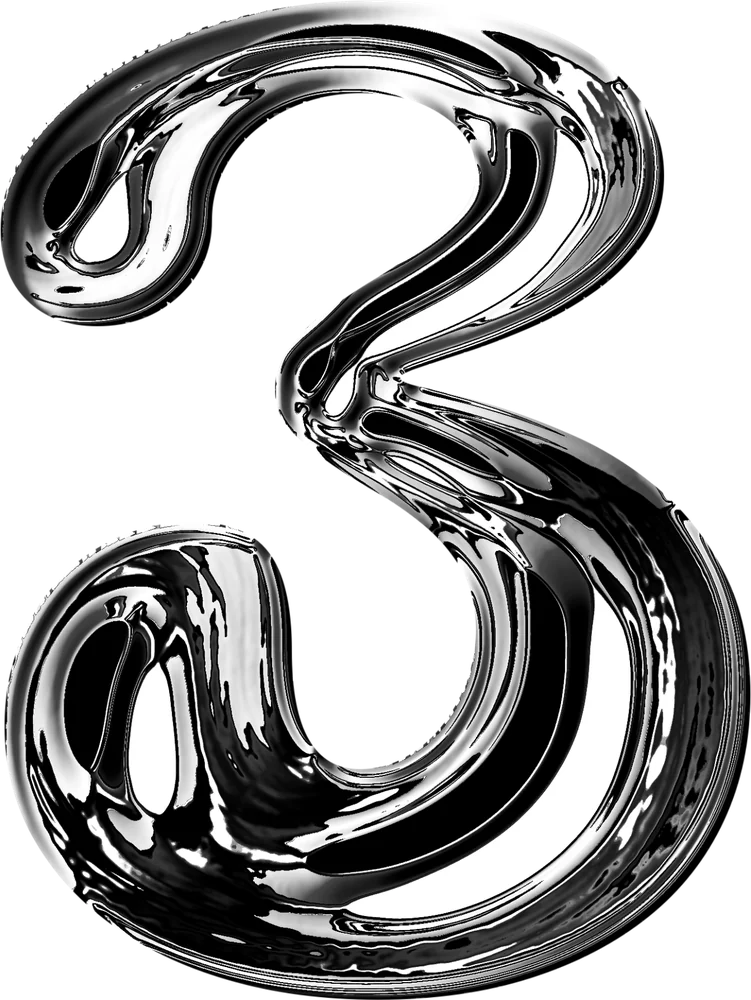
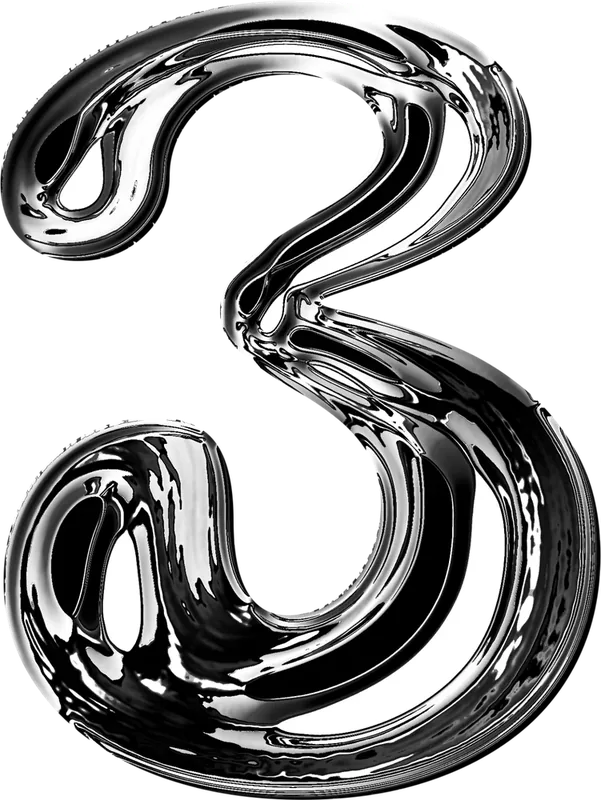
Lighter first load (lazy video, photos and letters, smaller images); cards follow the stack; softer blur crossfade
Claude-Session: https://claude.ai/code/session_015srq9B7aamxsEMEASfp4Nc

diff --git a/site/app.js b/site/app.js
@@ -16,14 +16,14 @@
     { emoji: '🔮', label: 'Vibes', why: 'or wibes' }
   ];
   const SLIDES = [
-    ['stay-01.jpg', 'Patio opening onto the kitchen, with a pool in front'],
-    ['stay-02.jpg', 'Fire pit overlooking the pickleball court at sunset'],
-    ['stay-03.jpg', 'Resort-style pool with loungers and cabana'],
-    ['stay-04.jpg', 'Patio chairs, cabana and court under a pink sky'],
-    ['stay-05.jpg', 'Pool with loungers and a wooden cabana'],
-    ['stay-06.jpg', 'Pickleball court with barrel sauna and clear dome'],
-    ['stay-07.jpg', 'Aerial view of the whole property in the desert'],
-    ['stay-08.jpg', 'Top-down aerial of pool, court and putting green']
+    ['stay-01.webp', 'Patio opening onto the kitchen, with a pool in front'],
+    ['stay-02.webp', 'Fire pit overlooking the pickleball court at sunset'],
+    ['stay-03.webp', 'Resort-style pool with loungers and cabana'],
+    ['stay-04.webp', 'Patio chairs, cabana and court under a pink sky'],
+    ['stay-05.webp', 'Pool with loungers and a wooden cabana'],
+    ['stay-06.webp', 'Pickleball court with barrel sauna and clear dome'],
+    ['stay-07.webp', 'Aerial view of the whole property in the desert'],
+    ['stay-08.webp', 'Top-down aerial of pool, court and putting green']
   ];
   const FROM = ['SF', 'LAX'];
 
@@ -142,14 +142,14 @@
         <circle cx="100" cy="100" r="99" fill="${METAL[ring] ? `url(#${id}g)` : ring}"/>
         <text fill="${ink}"><textPath href="#${id}" textLength="548" lengthAdjust="spacing">${esc(text)}</textPath></text>
       </svg>
-      <div class="badge-photo"><img src="${src}" alt="" style="object-position:${objPos}"></div>
+      <div class="badge-photo"><img src="${src}" alt="" style="object-position:${objPos}"${cls === 'gb-badge' ? ' loading="lazy" decoding="async"' : ''}></div>
     </div>`);
   }
   const heroBadges = $('heroBadges');
   [
-    ['assets/kathi.jpg', '50% 45%', 'TAP TO RSVP ✦ RSVP BY OCT 30 ✦ TAP TO RSVP ✦ RSVP BY OCT 30 ✦', '#f02719', '#ffffff', 'right:5%;top:30%;width:clamp(150px,20vw,270px)', 0, 16],
-    ['assets/kathi-baby.jpg', '51% 18%', 'EST. 1997 ✦ BABY KATHI ✦ EST. 1997 ✦ BABY KATHI ✦', '#fbf8f4', '#24221f', 'left:4%;top:27%;width:clamp(130px,17vw,240px)', -1.7, -20],
-    ['assets/kathi-bw.jpg', '58% 30%', 'CERTIFIED CHAOS ✦ 30 & THRIVING ✦ CERTIFIED CHAOS ✦ 30 & THRIVING ✦', '#24221f', '#f6f2ec', 'right:27%;top:55%;width:clamp(110px,13vw,190px)', -3.2, 12]
+    ['assets/kathi.webp', '50% 45%', 'TAP TO RSVP ✦ RSVP BY OCT 30 ✦ TAP TO RSVP ✦ RSVP BY OCT 30 ✦', '#f02719', '#ffffff', 'right:5%;top:30%;width:clamp(150px,20vw,270px)', 0, 16],
+    ['assets/kathi-baby.webp', '51% 18%', 'EST. 1997 ✦ BABY KATHI ✦ EST. 1997 ✦ BABY KATHI ✦', '#fbf8f4', '#24221f', 'left:4%;top:27%;width:clamp(130px,17vw,240px)', -1.7, -20],
+    ['assets/kathi-bw.webp', '58% 30%', 'CERTIFIED CHAOS ✦ 30 & THRIVING ✦ CERTIFIED CHAOS ✦ 30 & THRIVING ✦', '#24221f', '#f6f2ec', 'right:27%;top:55%;width:clamp(110px,13vw,190px)', -3.2, 12]
   ].forEach((b) => heroBadges.append(ringSticker('badge', ...b)));
   // the red sticker doubles as the RSVP button
   (() => {
@@ -171,6 +171,13 @@
     const kicker = hero.querySelector('.hero-kicker');
     hero.insertBefore(wrap, kicker);
     [kicker, hero.querySelector('.hero-30-wrap'), hero.querySelector('.hero-reflect'), $('heroBadges')].forEach((el) => wrap.appendChild(el));
+  })();
+
+  // ---------- dance video: loads and plays only when it scrolls into view ----------
+  (() => {
+    const v = document.querySelector('.polaroid video');
+    if (!v || !('IntersectionObserver' in window)) return;
+    new IntersectionObserver((es) => es.forEach((en) => { if (en.isIntersecting) { if (!v.src) v.src = v.dataset.src; v.play().catch(() => {}); } else if (v.src) v.pause(); }), { rootMargin: '300px 0px' }).observe(v);
   })();
 
   // ---------- marquee ----------
@@ -202,15 +209,15 @@
   // ---------- guest book lock stickers ----------
   const gbBadges = $('gbBadges');
   [
-    ['assets/gb-01.jpg', '35% 28%', 'KATHI 30 ✦ JOSHUA TREE ✦ KATHI 30 ✦ JOSHUA TREE ✦', 'gunmetal', '#d4d7de', 'left:3%;top:6%;width:clamp(140px,18vw,230px)', 0, 16],
-    ['assets/gb-02.jpg', '55% 35%', 'MAIN CHARACTERS ✦ MAIN CHARACTERS ✦', 'silver', '#f02719', 'left:6%;bottom:8%;width:clamp(130px,16.5vw,215px)', -1.3, -18],
-    ['assets/gb-03.jpg', '40% 30%', 'DESERT CREW ✦ DESERT CREW ✦', '#f02719', '#ffffff', 'left:14%;top:40%;width:clamp(108px,11.5vw,160px)', -2.1, 14],
-    ['assets/gb-04.jpg', '62% 58%', 'JAN 15—18 ✦ 2027 ✦ JAN 15—18 ✦ 2027 ✦', 'blue', '#24221f', 'right:4%;top:5%;width:clamp(140px,18vw,230px)', -0.7, -20],
-    ['assets/gb-05.jpg', '45% 25%', 'STARGAZING GLAM ✦ STARGAZING GLAM ✦', 'silver', '#24221f', 'right:14%;top:42%;width:clamp(108px,11.5vw,160px)', -2.8, 17],
-    ['assets/gb-06.jpg', '45% 55%', '30 & THRIVING ✦ 30 & THRIVING ✦', '#f02719', '#ffffff', 'right:5%;bottom:7%;width:clamp(130px,16.5vw,215px)', -3.5, -15],
-    ['assets/gb-07.jpg', '60% 55%', 'NO PEEKING ✦ NO PEEKING ✦ NO PEEKING ✦', 'blue', '#f02719', 'left:30%;bottom:2%;width:clamp(108px,11.5vw,160px)', -4.4, 13]
+    ['assets/gb-01.webp', '35% 28%', 'KATHI 30 ✦ JOSHUA TREE ✦ KATHI 30 ✦ JOSHUA TREE ✦', 'gunmetal', '#d4d7de', 'left:3%;top:6%;width:clamp(140px,18vw,230px)', 0, 16],
+    ['assets/gb-02.webp', '55% 35%', 'MAIN CHARACTERS ✦ MAIN CHARACTERS ✦', 'silver', '#f02719', 'left:6%;bottom:8%;width:clamp(130px,16.5vw,215px)', -1.3, -18],
+    ['assets/gb-03.webp', '40% 30%', 'DESERT CREW ✦ DESERT CREW ✦', '#f02719', '#ffffff', 'left:14%;top:40%;width:clamp(108px,11.5vw,160px)', -2.1, 14],
+    ['assets/gb-04.webp', '62% 58%', 'JAN 15—18 ✦ 2027 ✦ JAN 15—18 ✦ 2027 ✦', 'blue', '#24221f', 'right:4%;top:5%;width:clamp(140px,18vw,230px)', -0.7, -20],
+    ['assets/gb-05.webp', '45% 25%', 'STARGAZING GLAM ✦ STARGAZING GLAM ✦', 'silver', '#24221f', 'right:14%;top:42%;width:clamp(108px,11.5vw,160px)', -2.8, 17],
+    ['assets/gb-06.webp', '45% 55%', '30 & THRIVING ✦ 30 & THRIVING ✦', '#f02719', '#ffffff', 'right:5%;bottom:7%;width:clamp(130px,16.5vw,215px)', -3.5, -15],
+    ['assets/gb-07.webp', '60% 55%', 'NO PEEKING ✦ NO PEEKING ✦ NO PEEKING ✦', 'blue', '#f02719', 'left:30%;bottom:2%;width:clamp(108px,11.5vw,160px)', -4.4, 13]
   ].forEach(([src, op, text, ring, ink, style, delay, dur]) => gbBadges.append(ringSticker('gb-badge', src, op, text, ring, ink, style, delay, dur)));
-  const lock = ringSticker('lock-badge', 'assets/kathi.jpg', '50% 45%', 'NO PEEKING ✦ LOCKED TILL THE PARTY ✦ NO PEEKING ✦ LOCKED ✦', '#f02719', '#ffffff', '', 0, 14);
+  const lock = ringSticker('lock-badge', 'assets/kathi.webp', '50% 45%', 'NO PEEKING ✦ LOCKED TILL THE PARTY ✦ NO PEEKING ✦ LOCKED ✦', '#f02719', '#ffffff', '', 0, 14);
   lock.firstElementChild.append(h('<span class="lock-icon">🔒</span>'));
   $('lockBadge').replaceWith(lock);
 
@@ -228,7 +235,10 @@
 
   // ---------- carousel ----------
   let slide = 0, lastNav = 0;
-  $('slides').innerHTML = SLIDES.map(([src, alt], i) => `<img src="assets/${src}" alt="${esc(alt)}" ${i ? 'loading="lazy"' : 'fetchpriority="high"'} class="${i ? '' : 'on'}">`).join('');
+  // the photos only get their addresses once the stay section comes near, so they don't weigh on the first load
+  $('slides').innerHTML = SLIDES.map(([src, alt], i) => `<img data-src="assets/${src}" alt="${esc(alt)}" decoding="async" class="${i ? '' : 'on'}">`).join('');
+  const loadSlides = () => [...$('slides').children].forEach((im) => { if (!im.src) im.src = im.dataset.src; });
+  if ('IntersectionObserver' in window) new IntersectionObserver((es, io) => { if (es.some((en) => en.isIntersecting)) { loadSlides(); io.disconnect(); } }, { rootMargin: '700px 0px' }).observe($('carousel')); else loadSlides();
   $('dots').innerHTML = SLIDES.map((_, i) => `<button type="button" aria-label="go to photo ${i + 1}" class="${i ? '' : 'on'}"></button>`).join('');
   const slideImgs = [...$('slides').children], dots = [...$('dots').children];
   function go(i, user) {
@@ -562,7 +572,7 @@
       zone.style.marginTop = GAPB - MB[last] - P + 'px';
       let gap = zone.querySelector('.mq-gap');
       if (!gap) { gap = document.createElement('div'); gap.className = 'mq-gap'; mq.after(gap); }
-      gap.style.height = MB[last] + P - GAPB + 'px';
+      gap.style.height = MB[last] + P - GAPB - mq.offsetHeight - MQ_TUCK + 'px';   // the cards arrive right behind the stack
     }
     hazePairs = mobile
       ? [[kicker, w30, 4, .45, [kicker]], [w30, row, -24, .45, [w30]], [row, heroIntro, -16, .3, [row]], [heroIntro, heroCd, -16, .35, [heroIntro]], [heroCd, mq, -10, .5, [heroCd]]]
@@ -585,11 +595,13 @@
         targets.forEach((el) => { const t = el._twin; if (t) t.sharp.style.animationRange = t.blur.style.animationRange = `${y0.toFixed(1)}px ${y1.toFixed(1)}px`; });
       });
       if (mq) mq.style.setProperty('--mq-range', `${mqLand.toFixed(1)}px ${mqPush.toFixed(1)}px`);
+      stack.style.setProperty('--gone', `${mqLand.toFixed(1)}px ${(mqLand + GONE).toFixed(1)}px`);   // the released stack fades out under the banner
       heroEl.classList.add('sda'); document.documentElement.classList.add('sda');
     }
     document.documentElement.classList.remove('measuring');
     coverFx();
   }
+  const GONE = 160;                                          // scroll distance over which the released stack fades out
   const MQ_TUCK = 12;                                        // how far the docked banner slides under the menu
   // the banner's scrolling text winds down with the fade and finally stands still
   const mqTrack = $('marquee'); let mqAnim = null;
@@ -640,6 +652,8 @@
   function coverFx() {
     if (SDA) return;
     const mq = document.querySelector('.marquee');
+    const gone = 1 - Math.min(1, Math.max(0, (scrollY - mqLand) / GONE));
+    document.querySelectorAll('.hero-stack > :not(.stack-spacer)').forEach((el) => { el.style.opacity = gone < 1 ? gone.toFixed(3) : ''; });
     if (mq) mq.style.setProperty('--mqo', (1 - .6 * Math.min(1, Math.max(0, (scrollY - mqLand) / Math.max(1, mqPush - mqLand)))).toFixed(3));
     hazePairs.forEach(([below, above, rest, span, targets]) => {
       const a = below.getBoundingClientRect(), b = above.getBoundingClientRect();
@@ -647,7 +661,7 @@
       const v = Math.round(p * 50) / 50;
       targets.forEach((el) => {
         const t = el._twin; if (!t || t.v === v) return;
-        t.v = v; t.sharp.style.opacity = String(1 - v); t.blur.style.opacity = String(Math.max(.01, v * .95));
+        t.v = v; t.sharp.style.opacity = String(1 - v * .88); t.blur.style.opacity = String(Math.max(.01, v * .85));
       });
     });
   }
@@ -709,7 +723,7 @@
   if (silverKicker) document.documentElement.classList.add('kicker-silver');
   const hosts = document.querySelectorAll(silverKicker ? '.h2, .rsvp-big' : '.hero-kicker, .h2, .rsvp-big'); // carpool board keeps the regular silver font
   const GW = {'A':279,'B':195,'C':195,'D':186,'E':196,'F':156,'G':213,'H':211,'I':104,'J':184,'K':210,'L':188,'M':248,'N':217,'O':196,'P':175,'Q':198,'R':207,'S':215,'T':212,'U':206,'V':230,'W':280,'X':228,'Y':178,'Z':215,'0':208,'1':227,'2':253,'3':210,'4':251,'5':222,'6':218,'7':191,'8':231,'9':182}; // letter widths at 280px tall, so the layout is right before the images arrive
-  const glyph = (c) => (/[A-Z0-9]/.test(c) ? `<img class="el" src="assets/etsy/${c}.webp" alt="" width="${GW[c]}" height="280">` : `<span class="el-p">${c}</span>`);
+  const glyph = (c) => (/[A-Z0-9]/.test(c) ? `<img class="el" src="assets/etsy/${c}.webp" alt="" width="${GW[c]}" height="280" loading="lazy" decoding="async">` : `<span class="el-p">${c}</span>`);
   hosts.forEach((h0) => {
     const h = h0._twin ? h0._twin.sharp : h0;   // the hero headline may already be split into sharp + blurred copies
     h0.setAttribute('aria-label', h.textContent.replace(/\s+/g, ' ').trim());

diff --git a/site/index.html b/site/index.html
@@ -20,9 +20,9 @@
 <link rel="preconnect" href="https://fonts.googleapis.com">
 <link rel="preconnect" href="https://fonts.gstatic.com" crossorigin>
 <link href="https://fonts.googleapis.com/css2?family=Unbounded:wght@400;700;900&family=Instrument+Sans:wght@400;500;600&family=Instrument+Serif:ital@0;1&family=JetBrains+Mono:wght@400;600&display=swap" rel="stylesheet">
-<link rel="stylesheet" href="styles.css?v=111">
+<link rel="stylesheet" href="styles.css?v=112">
 <script src="config.js?v=26"></script>
-<script src="app.js?v=111" defer></script>
+<script src="app.js?v=112" defer></script>
 </head>
 <body>
 <div class="page">
@@ -54,8 +54,8 @@
     <div class="hero-glow" aria-hidden="true"></div>
     <div id="heroBadges"></div>
     <h1 class="hero-kicker chrome-text"><span>KATHI <i class="kx">x</i> JOSHUA</span> <span>TURNING</span></h1>
-    <div class="hero-30-wrap"><div class="big30 etsy30" role="img" aria-label="30"><img src="assets/etsy-three.webp" alt="" width="751" height="1000"><img src="assets/etsy-zero.webp" alt="" width="742" height="1000"></div></div>
-    <div class="hero-reflect" aria-hidden="true"><div class="big30 haze etsy30"><img src="assets/etsy-three.webp" alt="" width="751" height="1000"><img src="assets/etsy-zero.webp" alt="" width="742" height="1000"></div></div>
+    <div class="hero-30-wrap"><div class="big30 etsy30" role="img" aria-label="30"><img src="assets/etsy-three.webp" alt="" width="601" height="800"><img src="assets/etsy-zero.webp" alt="" width="594" height="800"></div></div>
+    <div class="hero-reflect" aria-hidden="true"><div class="big30 haze etsy30"><img src="assets/etsy-three.webp" alt="" width="601" height="800"><img src="assets/etsy-zero.webp" alt="" width="594" height="800"></div></div>
     <div class="hero-bottom">
       <div class="hero-intro">
         <p class="hero-line">The Airbnbs are locked and <em>the desert is calling</em>. Join me for 3 nights under the stars.</p>
@@ -221,7 +221,7 @@
       </div>
       <div class="polaroid">
         <span class="tape" aria-hidden="true"></span>
-        <video src="assets/kathi-dance.mp4?v=26" poster="assets/kathi-dance.jpg" autoplay muted loop playsinline preload="metadata" aria-label="Kathi dancing"></video>
+        <video data-src="assets/kathi-dance.mp4?v=26" poster="assets/kathi-dance.jpg" muted loop playsinline preload="none" aria-label="Kathi dancing"></video>
         <span class="polaroid-cap">when the playlist hits</span>
       </div>
       <div class="playlist pl-night">

diff --git a/site/styles.css b/site/styles.css
@@ -804,8 +804,8 @@ html.kicker-allblack .hero-kicker .kx { color: var(--ink) !important; -webkit-te
 .lyr-blur.bmp img { position: absolute; left: 50%; top: 0; translate: -50% 0; max-width: none; display: block; }
 
 /* scroll-driven fades (Safari 26+, Chrome): the browser crossfades sharp -> blurred copy from the scroll position */
-@keyframes lyr-out { from { opacity: 1; } to { opacity: 0; } }
-@keyframes lyr-in { from { opacity: .01; } to { opacity: .95; } }
+@keyframes lyr-out { from { opacity: 1; } to { opacity: .12; } }
+@keyframes lyr-in { from { opacity: .01; } to { opacity: .85; } }
 .hero.sda .lyr-sharp { animation: lyr-out linear both; animation-timeline: scroll(root block); }
 .hero.sda .lyr-blur { animation: lyr-in linear both; animation-timeline: scroll(root block); }
 .hero.measuring .hero-stack > *, .hero.measuring .hero-bottom, .hero.measuring .marquee { position: static !important; }
@@ -818,3 +818,7 @@ html.kicker-allblack .hero-kicker .kx { color: var(--ink) !important; -webkit-te
 @keyframes mq-fade { from { opacity: 1; } to { opacity: .4; } }
 html.sda .marquee-track > span { animation: mq-fade linear both; animation-timeline: scroll(root block); animation-range: var(--mq-range, 999999px 1000000px); }
 .mq-zone { display: flow-root; position: relative; }
+
+/* once the banner has docked, the released stack fades away underneath it */
+@keyframes lyr-gone { from { opacity: 1; } to { opacity: 0; } }
+.hero.sda .hero-stack > :not(.stack-spacer) { animation: lyr-gone linear both; animation-timeline: scroll(root block); animation-range: var(--gone, 999999px 1000000px); }
